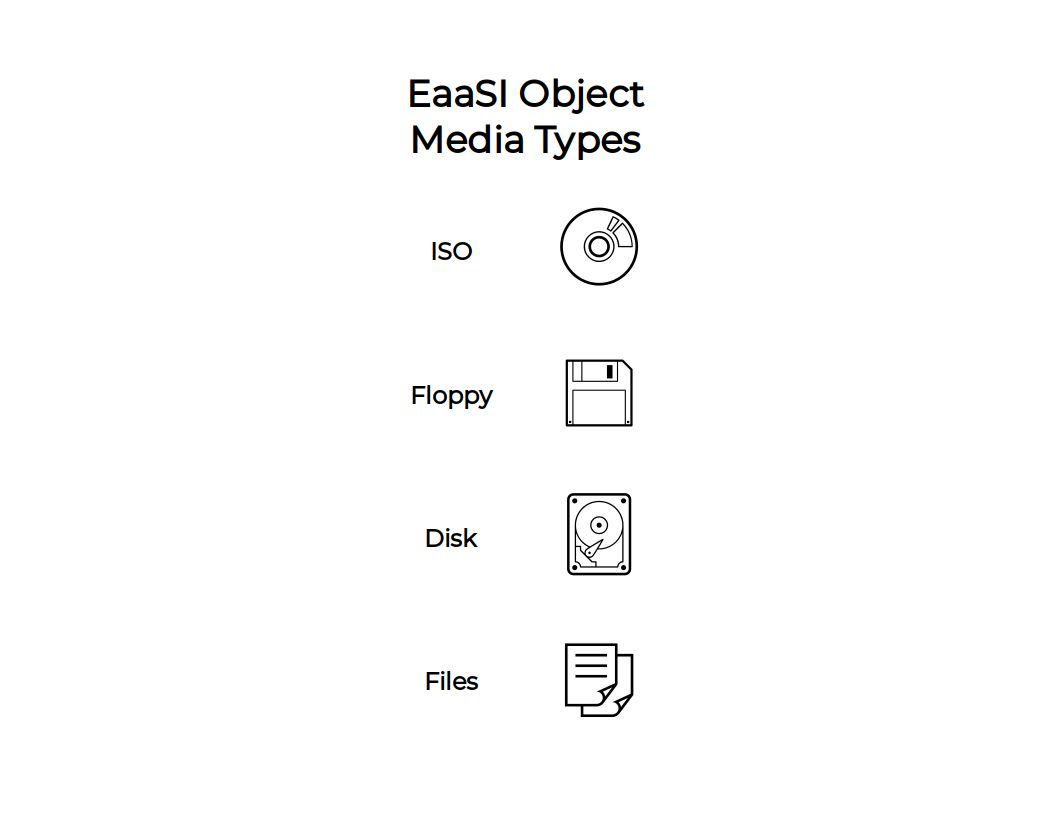
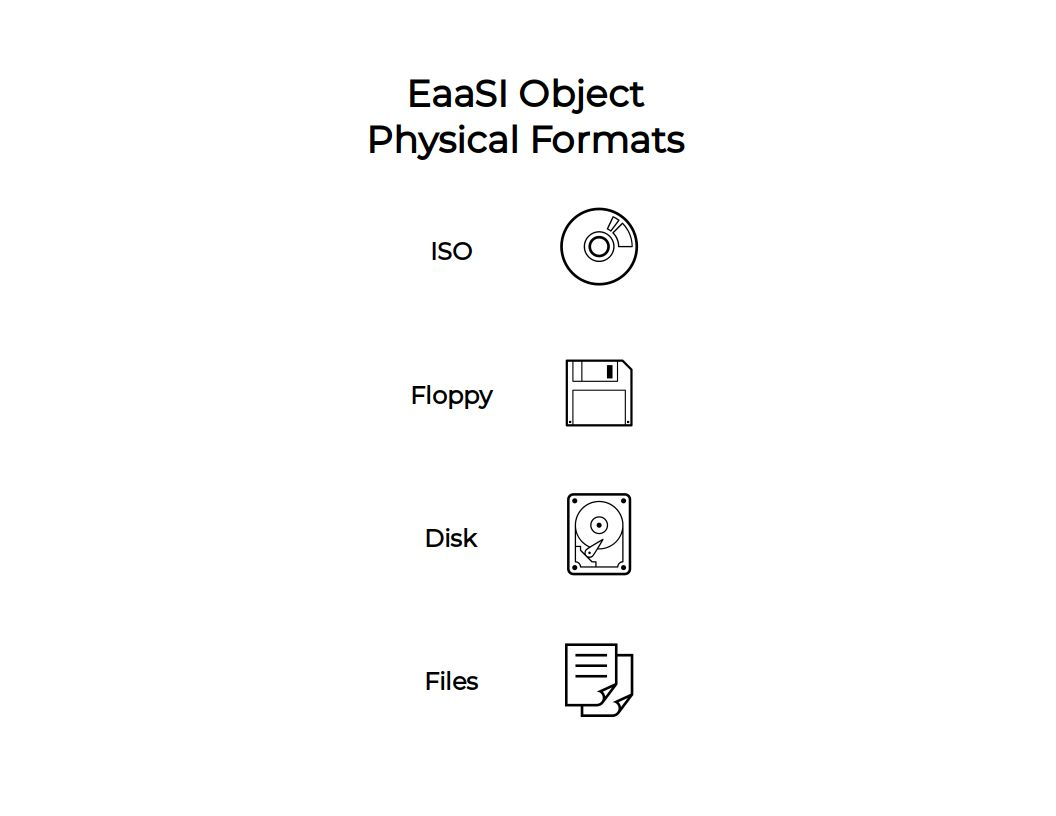
update deploy instructions

Changed region(s): [[0.3438, 0.1532, 0.6562, 0.2145]]

diff --git a/source/guide/import-resource.rst b/source/guide/import-resource.rst
@@ -2,11 +2,12 @@
 
 .. _add_resources:
 
+.. note::
+  Resources imported by nodes previous to the 2020.03-beta release *should* persist without additional
+  migration steps. Please file a bug report or contact the EaaSI team if encountering missing resources.
+
 Import Resources
 *******************
-
-.. warning::
-  tktktktk something about migrating resources from the 2019 beta versions if necessary
 
 .. image:: ../images/visual_designs5.jpg
 
@@ -26,14 +27,27 @@ Importing Content
 To begin, select the "Import Content" button on the Import Resource page.
 
 First, you will need to name your Content resource. This should be something short and descriptive; spaces, periods, hyphens
-and underscores are OK, but please avoid using other special characters.
+and underscores are OK, but please avoid using other special characters. Then proceed by clicking "Continue".
 
 .. image:: ../images/about_this_content.png
 
+You have three options for attaching and uploading files to be included in an import:
+
+.. image:: ../images/attach_files.png
+
+1. **URL**: Provide a direct download URL from publicly available cloud/web storage (HTTP addresses only)
+2. **My Computer**: Will pull up a file browser for you to manually select the file(s) from your computer that make up your desired Content.
+3. **Drag Files**: You may drag-and-drop the file(s) from your desktop to make up your desired Content.
+
+Once at least one file is selected, the UI will allow you to "Add More Files" to create a multi-file resource:
+
+.. image:: ../images/add_more_files.png
+
+You may add as many files as desired.
 
 .. _media_types:
 
-There are four Media Types available to describe the file(s) being uploaded. The Media Type will be used by EaaS to
+There are four Physical Formats available to describe the file(s) being uploaded. The Physical Format will be used by EaaS to
 communicate to emulators where/how to mount an object into an environment (i.e. relevant file system and/or virtual
 drive).
 
@@ -46,26 +60,24 @@ drive).
 
 - *Disk* - Attempts to mount the object as a hard drive (success may thus be highly variable depending on an environment's configured hardware, the operating system's compatibility with the image's file system, etc.). Should accept most if not all hard disk image formats (IMG, DMG, DD/raw, QCOW, VDI, VMDK, E01/EWF, etc.)
 
-- *Files* - This option will accept any set of non-disk-image files. To allow for maximum compatibility, imported file sets are currently packaged by EaaSI into an ISO file and file set objects will thus mount in an environment's virtual optical/CD-ROM drive.
+- *Files* - This option will accept any set of files (i.e. intended for files that are not packaged in a disk image). To allow the arbitrary file set to be mounted in the broadest possible range of operating systems, imported file sets are currently packaged by EaaSI into an ISO file on the back-end; Files objects should thus mount in an environment's virtual CD-ROM/optical drive.
 
 
-Click the "Add Files" button to pull up a file browser and select the file(s) that make up your desired Object. You can
-add as many individual files to an import as desired to create multi-file Objects. The files that make up an Object
-should be of a consistent Media Type to allow for successful mounting into an emulator.
+For "ISO", "Floppy", and "Disk" type resources, the files that make up the Content **must** be of the same Physical Format to mount and switch between files/disks
+properly in emulation. Mixed-format resources are currently not supported.
 
-.. image:: ../images/media_type.png
-
-.. note::
+.. warning::
   For example, An operating system installer might contain a boot floppy and then multiple CD-ROMs. The floppy image
-  and the CD-ROM images must be considered and imported as different Objects, but the CD-ROM images should likely be
-  imported together as a single Object.
+  and the CD-ROM images must be considered and imported as different resources, but the CD-ROM images should likely be
+  imported together as a single resource.
 
-Once all desired files have been selected, click "Import" at the bottom of the page. A pop-up window should display the
-progress and success of the Object import.
+Once all desired files have been selected, click "Finish Import" at the top of the page:
 
-On successful import, the new Object will be available in the :ref:`Objects overview <objects_overview>`. If the
-imported Object is considered a Software Object (rather than a Digital Object/collection item) see
-:ref:`adding_software`.
+.. image:: ../images/finish_import.png
+
+Please **do not** navigate away fromm the import page until the upload is completed (i.e. the EaaSI logo stops spinning)
+
+On successful import, the new Content resource will be available in the :ref:`explore` menu.
 
 
 .. _import_software:
@@ -73,20 +85,37 @@ imported Object is considered a Software Object (rather than a Digital Object/co
 Importing Software
 ======================
 
+The steps for importing Software resources are extremely similar to those for :ref:`import_content` above, with a few added options
+for additional metadata.
+
+To start import of a Software resource, select "Import Software" on the Import Resources page, then select "Fast Import".
+
+.. image:: ../images/fast_import.png
+
+.. warning::
+  "Detailed Import" is a proposed future feature that takes advantage of the full EaaSI metadata model for describing software.
+  It is non-functional in the 2020.03-beta release, but can give nodes an idea of the type of information they may want to start
+  capturing about their software collections. The EaaSI team is considering enforcing detailed description of Software resources
+  that are published to the Network in order to reduce redundant/duplicate resources.
+  
+From there, you must at a minimum assign a name to the Software Resource:
+
+.. image:: ../images/about_software.png
+
+All notes above regarding Physical Formats and selecting files to create a Content resource apply to Software as well.
+
+(Again, mixed-format Software types are currently not compatible with EaaSI)
+
+When you have selected Finish Import.
+
 
 .. _import_base:
 
 Importing an Environment
 ===========================
 
-.. note::
-  To import a new Base Environment into EaaSI using the demo interface, the base disk image file must first be directly
-  accessible at an HTTP web address. This could include cloud storage services (Google Drive, Dropbox, Box, etc.)
-
-  If this is not possible, environments must be directly uploaded into the EaaSI container's file system and synced
-  into the system. Contact the EaaSI team for instructions.
-
-To import a new Base Environment, navigate to the "Import/Create Environment" page using the sidebar menu.
+To import a new Environment resource (i.e. a disk image that already contains a bootable operating system), 
+select "Import Environment" on the "Import Resources" menu.
 
 .. image:: images/create_base_environment.png
 

diff --git a/source/overview/install/setup.rst b/source/overview/install/setup.rst
@@ -47,7 +47,7 @@ Current version of the installer makes the following assumptions:
 
   .. note::
 
-     `eaasi-ansible`_ already supports distributed deployment, consisting of a single gateway
+     `eaasi-ansible`_ technically supports distributed deployment, consisting of a single gateway
      machine and multiple worker machines running emulation sessions. However, this is not yet
      fully documented and therefore not available in the current installer version.
 
@@ -158,10 +158,12 @@ When everything is configured, the installation process can be started by runnin
    $ ./scripts/deploy.sh
 
 It will take a while depending on your internet connection and target machine. When the installation process
-is finished, you should be able to access the EaaSI-UI with a browser under the URL ``http://<hostname>``.
+is finished, you should be able to access EaaSI with a browser at the URL ``http://<hostname>``.
 The ``<hostname>`` should match the address of the target machine you specified in the ``hosts.yaml`` file.
-When asked for login credentials, the ``ui.http_auth.user`` and ``ui.http_auth.password`` you specified in
-the ``eaasi.yaml`` file should be used.
+When asked for login credentials, use the email you configured for the ``intial_user`` and the password ``eaasidemo1``.
+
+.. warning::
+  Again, we strongly recommend the initial user immediately reset their password upon successful login. This will also act as a test of the selected SMTP mailer configuration.
 
 
 .. _updating-eaasi:
@@ -174,16 +176,16 @@ script to match the new/updated tagged release provided by the EaaSI team, for e
 
 .. code-block:: sh
 
-  $ git-pull.sh origin eaasi-release-072019
+  $ git-pull.sh origin eaasi-release-2020.03
 
-Where ``eaasi-release-072019`` should be replaced by the relevant tag provided.
+Where ``eaasi-release-2020.03`` should be replaced by the relevant tag provided.
 
 The EaaSI configuration located in ``artifacts/config/eaasi.yaml`` must then be updated with the relevant tag on
 certain lines as well; for example:
 
-  - docker.image: "eaas/eaas-appserver:eaasi-release-072019"
-  - eaas.git_branch: "eaasi-release-072019"
-  - ui.git_branch: "eaasi-release-072019"
+  - docker.image: "eaas/eaas-appserver:eaasi-release-2020.03"
+  - eaas.git_branch: "eaasi-release-2020.03"
+  - portal.git_branch: "eaasi-release-2020.03"
 
 Following these configuration changes, to update the various EaaSI components, run:
 
@@ -193,15 +195,15 @@ Following these configuration changes, to update the various EaaSI components, r
 
 where ``<component>`` can be one of the following:
 
-- ``ui``: to update EaaSI's UI to the latest version
 - ``ear``: to update EaaSI's server binary to the latest version
 - ``docker-image``: to update runtime docker-image to the latest version
+- ``portal``: to update the UI and front-end to the latest version
 
 Multiple components can be specified as a space-separated list. If called without any ``<component>``
 arguments, then all components will be updated by default.
 
 Updates are run selectively in this way due to the way Ansible works: most actions executed during the installation are
-idempotent and can be repeated multiple times resulting in the same deployment state. This also means, that certain
+idempotent and can be repeated multiple times resulting in the same deployment state. This also means certain
 operations (like downloading files) are skipped, if those files are already present on the target machine. Ansible
 must be forced to omit the idempotency requirement for certain operations, to be able to update EaaSI's UI,
 server binary and runtime docker-image.

diff --git a/source/guide/logging-in.rst b/source/guide/logging-in.rst
@@ -5,28 +5,21 @@
 Logging In
 ===========
 
-Currently users must log in to the EaaSI interface using a basic OAuth service. Streamlined integration
-between EaaSI's authentication and Single Sign-On/local authentication services at Network
-instutitions is in development.
+Currently users must log in to the EaaSI interface using a basic local database for user management. Streamlined integration
+between EaaSI and Single Sign-On/local authentication services at Network instutitions is in development.
 
-Before logging in for the first time, a new EaaSI user must be added to the :term:`node` by an :term:`Admin`
-(the Admin must set a user/display name, email and permission level for the user; see :ref:`user_admin`). Once added, the new user may "Sign Up"
-on the OAuth page to confirm their account and set a password for authentication.
+Before logging in for the first time, a new EaaSI user must be added to the :term:`node` by an :term:`Admin`.
+The initial Admin must set a user/display name, email and permission level for the user; see :ref:`user_admin`).
+
+(The initial Admin user is determined during deployment - see :ref:`configuring-eaasi-installer`)
 
 .. image:: ../images/landing_page.png
   :align: center
 
-New users have the option of using their Google/Gmail account to log in, rather than setting a unique
-password, if desired.
+New users should receive an email containing their password at the email specified by the Admin.
 
-.. image:: ../images/sign_up.png
-  :align: center
-
-After signing up, users may log in to their EaaSI node using the "Log In" tab of the OAuth page to proceed
-to the EaaSI :ref:`dashboard`.
-
-.. image:: ../images/log_in.png
-  :align: center
+Passwords can be automatically reset, but not customized. Please keep track of your assigned password
+for logging in, preferably in a secure location such as a password manager.
 
 
 Logging Out

diff --git a/source/overview/install/installer-config.rst b/source/overview/install/installer-config.rst
@@ -124,9 +124,6 @@
       Git branch name to install EaaSI UI from.
       
   .. config-value:: auth
-  
-    Placeholder config for expected SAML/SSO authentication integration. Values can be left at their
-    default or commented out. (?)
     
   .. config-value:: mailer
   
@@ -182,7 +179,7 @@
     
       :type: string
       
-      Login password for the initial Admin user will be sent automatically to this address.
+      The login password for the initial user is hard-coded to **"eaasidemo1"**. It is strongly recommended that this initial user reset their password (which will generate a random, more secure password). Reset passwords for the initial user will be sent to this address.
       
     .. config-value:: username
     
